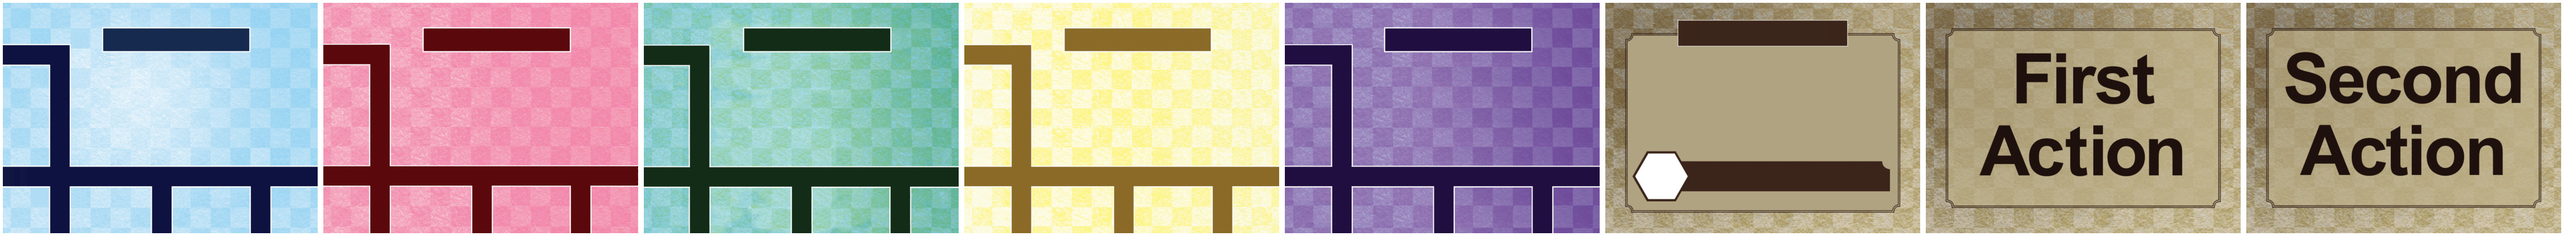
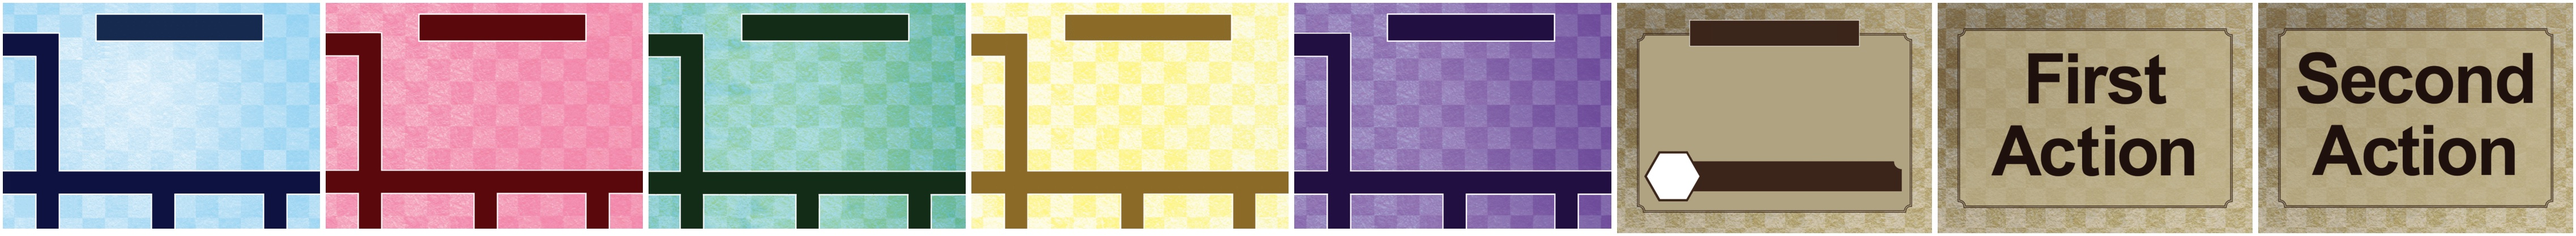
USe cropped card backgrounds and reposition elements on top of the card.

diff --git a/innovation.css b/innovation.css
@@ -788,16 +788,16 @@
 
 .card_title.M {
     left: 53px;
-    top: 12px;
+    top: 7px;
     width: 95px;
     height: 15px;
 }
 
 .card_effects.M {
-    left: 43px;
-    top: 29px;
+    left: 44px;
+    top: 25px;
     width: 133px;
-    height: 52px;
+    height: 56px;
 }
 
 .effect.M:nth-of-type(n+2) {
@@ -1440,7 +1440,7 @@
 .M.card {
     width: 180px;
     height: 124px;
-    background-size: 1645px 141px;
+    background-size: 1465px 135px;
     border-radius: 6px;
     box-shadow: 3px 3px grey;
 }
@@ -1471,23 +1471,23 @@
 }
 
 .M.top_left_icon {
-    top: 10px;
-    left: 10px;
+    top: 7px;
+    left: 7px;
 }
 
 .M.bottom_left_icon.M {
     top: 85px;
-    left: 10px;
+    left: 7px;
 }
 
 .M.bottom_center_icon.M {
     top: 85px;
-    left: 77px;
+    left: 73px;
 }
 
 .M.bottom_right_icon.M {
     top: 85px;
-    left: 140px;
+    left: 138px;
 }
 
 /* TODO(micahstairs): Remove this! */
@@ -1603,27 +1603,27 @@
 
 /* Blue card */
 .color_0.M.card {
-    background-position: -12px -5px;
+    background-position: -2px -2px;
 }
 
 /* Red card */
 .color_1.M.card {
-    background-position: -218px -5px;
+    background-position: -186px -2px;
 }
 
 /* Green card */
 .color_2.M.card {
-    background-position: -424px -5px;
+    background-position: -369px -2px;
 }
 
 /* Yellow card */
 .color_3.M.card {
-    background-position: -630px -5px;
+    background-position: -553px -2px;
 }
 
 /* Purple card */
 .color_4.M.card {
-    background-position: -836px -5px;
+    background-position: -736px -2px;
 }
 
 .item_0.L.card {
